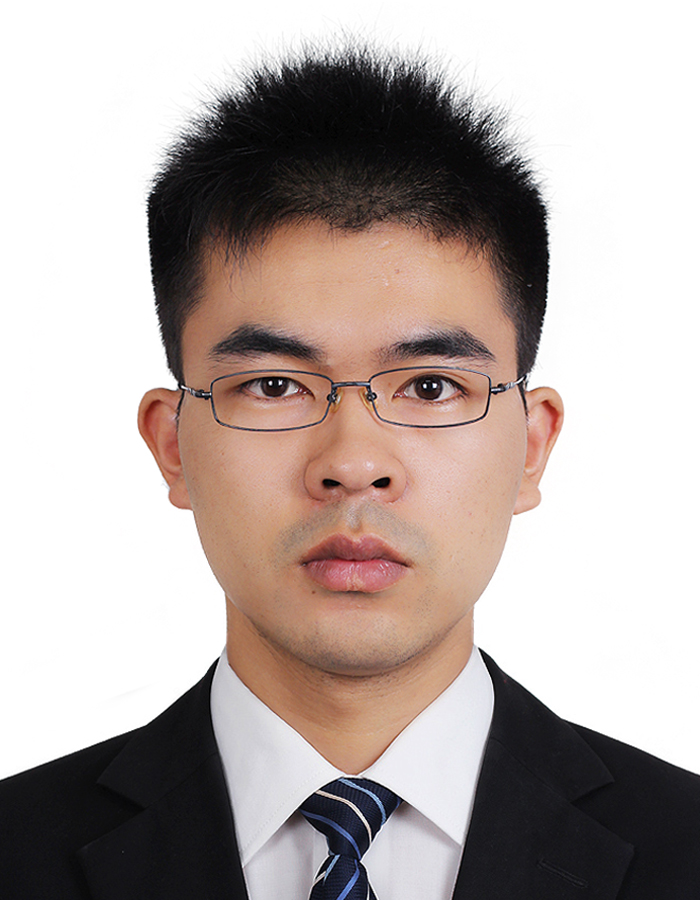
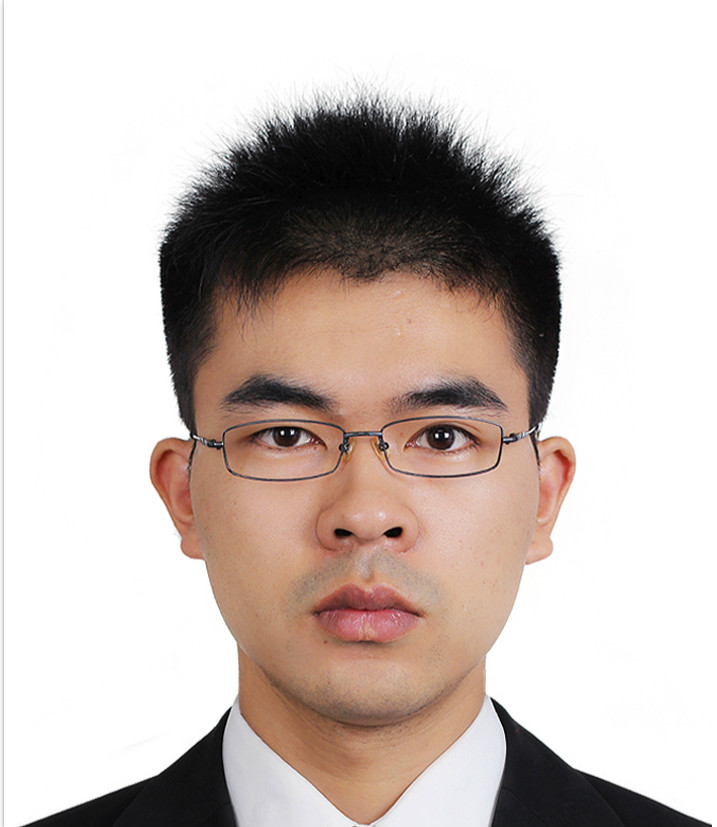
Build website

diff --git a/zh/authors/admin/index.html b/zh/authors/admin/index.html
@@ -388,7 +388,7 @@
 
       
       
-      <img class="portrait" src="/zh/authors/admin/avatar_hu11363408f10237d1c3e48a29d4da8b4f_358725_250x250_fill_q90_lanczos_center.jpg" alt="Avatar">
+      <img class="portrait" src="/zh/authors/admin/avatar_hufffd037662b92bf4e4ab082d85da491e_107394_250x250_fill_q90_lanczos_center.jpg" alt="Avatar">
       
 
       <div class="portrait-title">

diff --git a/zh/index.html b/zh/index.html
@@ -447,7 +447,7 @@
 
       
       
-      <img class="portrait" src="/zh/authors/admin/avatar_hu11363408f10237d1c3e48a29d4da8b4f_358725_250x250_fill_q90_lanczos_center.jpg" alt="Avatar">
+      <img class="portrait" src="/zh/authors/admin/avatar_hufffd037662b92bf4e4ab082d85da491e_107394_250x250_fill_q90_lanczos_center.jpg" alt="Avatar">
       
 
       <div class="portrait-title">

diff --git a/authors/admin/index.html b/authors/admin/index.html
@@ -388,7 +388,7 @@
 
       
       
-      <img class="portrait" src="/authors/admin/avatar_hu11363408f10237d1c3e48a29d4da8b4f_358725_250x250_fill_q90_lanczos_center.jpg" alt="Avatar">
+      <img class="portrait" src="/authors/admin/avatar_hufffd037662b92bf4e4ab082d85da491e_107394_250x250_fill_q90_lanczos_center.jpg" alt="Avatar">
       
 
       <div class="portrait-title">

diff --git a/index.html b/index.html
@@ -447,7 +447,7 @@
 
       
       
-      <img class="portrait" src="/authors/admin/avatar_hu11363408f10237d1c3e48a29d4da8b4f_358725_250x250_fill_q90_lanczos_center.jpg" alt="Avatar">
+      <img class="portrait" src="/authors/admin/avatar_hufffd037662b92bf4e4ab082d85da491e_107394_250x250_fill_q90_lanczos_center.jpg" alt="Avatar">
       
 
       <div class="portrait-title">
